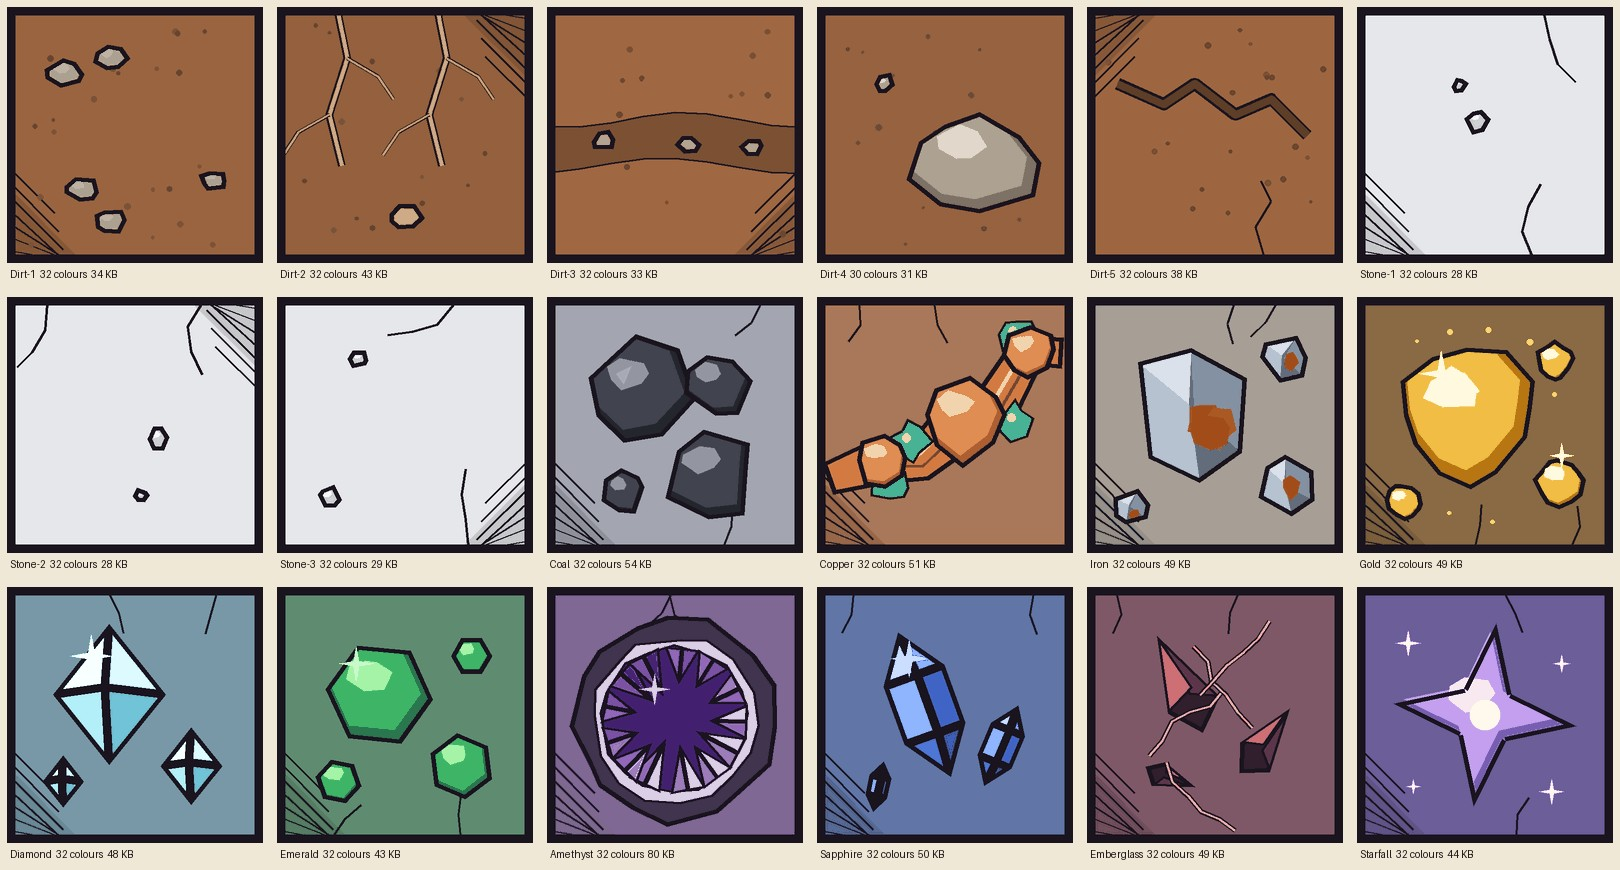
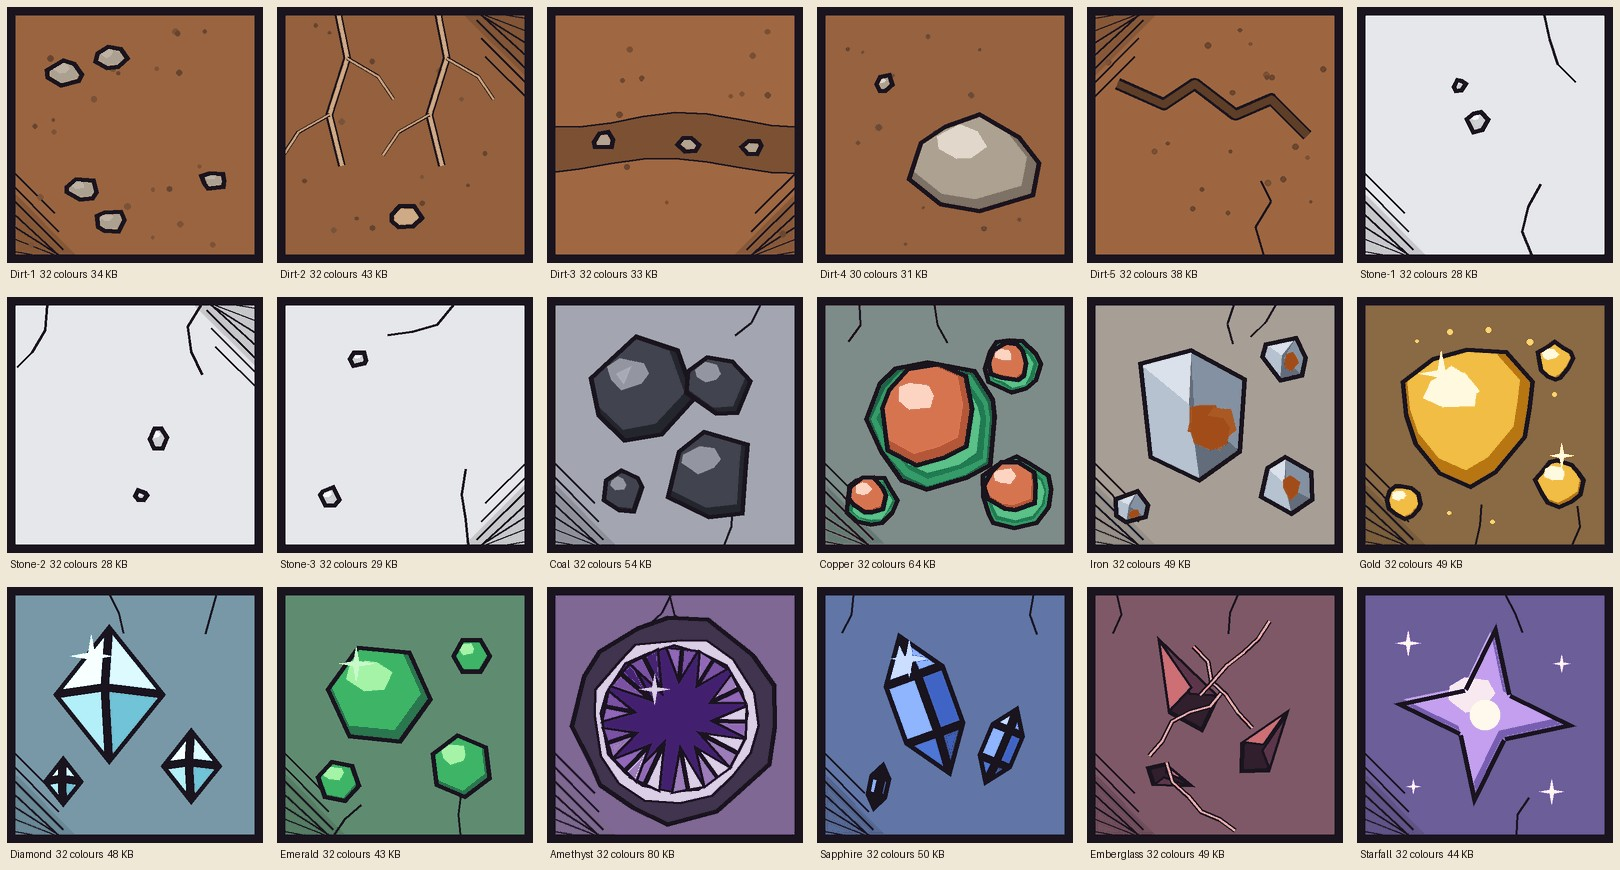
Redraw copper as nuggets in green malachite
The copper vein read as one long brown strand and didn't match the
other ores. Copper is now separate nuggets sitting in banded green
malachite, on grey-green rock so it stands apart from dirt and gold.
The copper itself is pinker and more metallic.

- draw_faces.py: replace the vein with a malachite drawing and
  regenerate Copper (the other drawings are unchanged).
- ReliefKit: replace the vein fallback with a matching malachite
  recipe, and add Kit.disc for the coloured bands.
- OreLooks: new copper palette, with malachite as its accent.

Changed region(s): [[0.4938, 0.3414, 0.679, 0.6517]]

diff --git a/art/ore-looks/draw_faces.py b/art/ore-looks/draw_faces.py
@@ -70,38 +70,21 @@ class Style:
 STYLE = Style()
 
 
-def ribbon(path, widths):
-    path = np.asarray(path, float)
-    left, right = [], []
-    for i, p in enumerate(path):
-        a = path[max(i - 1, 0)]
-        b = path[min(i + 1, len(path) - 1)]
-        d = b - a
-        nrm = np.array([-d[1], d[0]]) / (np.linalg.norm(d) + 1e-9)
-        left.append(p + nrm * widths[i])
-        right.append(p - nrm * widths[i])
-    return left + right[::-1], left, right
-
-
-def vein(t, ore, rng, style):
-    """A thick winding vein with nodules and a crust along its banks (Copper, Silver)."""
-    pal = ore["pal"]
-    path = [(0.06, 0.74), (0.24, 0.62), (0.4, 0.66), (0.55, 0.48), (0.7, 0.42), (0.82, 0.24), (0.95, 0.2)]
-    path = [(x + rng.uniform(-0.02, 0.02), y + rng.uniform(-0.03, 0.03)) for x, y in path]
-    widths = [0.065, 0.095, 0.085, 0.115, 0.095, 0.08, 0.06]
-    poly, left, right = ribbon(path, widths)
-    style.flat(t, poly, pal_at(pal, 0.45))
-    t.line([(x + LIGHT[0] * 0.02, y + LIGHT[1] * 0.02) for x, y in path[1:-1]], pal_at(pal, 0.92), 0.016)
-    t.line([(x - LIGHT[0] * 0.024, y - LIGHT[1] * 0.024) for x, y in path[1:-1]], pal_at(pal, 0.12), 0.012)
-    if "extra" in ore:
-        crust = ore["extra"]
-        for i, side in ((1, left), (2, right), (4, left), (5, right)):
-            c = side[i]
-            style.flat(t, blob(c, 0.075, 8, rng, 0.3), pal_at(crust, 0.45), edge=False)
-            t.ellipse((c[0] - 0.012, c[1] - 0.014), 0.018, pal_at(crust, 1.0))
-    for (cx, cy), r in ((path[3], 0.17), (path[1], 0.11), (path[5], 0.1)):
-        style.dome(t, blob((cx, cy), r, 8, rng, 0.16), pal, rng, lift=0.45)
-    style.spark(t, (path[3][0] - 0.05, path[3][1] - 0.07), 0.05, ore)
+def malachite(t, ore, rng, style):
+    """Copper nuggets sitting in cradles of banded green malachite, the rock copper is found in."""
+    pal, green = ore["pal"], ore["extra"]
+    for cx, cy, r in [(0.43, 0.45, 0.2), (0.76, 0.74, 0.11), (0.75, 0.25, 0.085), (0.2, 0.78, 0.08)]:
+        # the cradle sits a little toward the shadow side, so it shows as a crescent
+        oc = np.array([cx - LIGHT[0] * r * 0.28, cy - LIGHT[1] * r * 0.28])
+        outer = blob(tuple(oc), r * 1.32, 12, rng, 0.08)
+        t.poly(outer, pal_at(green, 0.15))
+        for scale, tone in ((1.18, 0.55), (1.06, 0.3), (0.95, 0.8)):
+            band = [tuple(oc + (np.asarray(p) - oc) * (scale / 1.32) + rng.uniform(-0.006, 0.006, 2)) for p in outer]
+            t.poly(band, pal_at(green, tone))
+        t.d.polygon(t.P(outer), outline=to255(INK), width=style.ow(t))
+        style.dome(t, blob((cx, cy), r, 10, rng, 0.13), pal, rng, lift=0.5)
+        hc = (cx + LIGHT[0] * r * 0.42, cy + LIGHT[1] * r * 0.42)
+        t.poly(blob(hc, r * 0.2, 7, rng, 0.25, aspect=1.4), pal_at(pal, 1.0))
 
 
 def nugget(t, ore, rng, style):
@@ -216,15 +199,16 @@ def hexes(t, ore, rng, style):
     style.spark(t, (0.31, 0.3), 0.055, ore)
 
 
-DRAWN = {"hex": hexes, "chunks": chunks, "dirt": dirt, "stone": stone, "vein": vein, "nugget": nugget}
+DRAWN = {"hex": hexes, "chunks": chunks, "dirt": dirt, "stone": stone, "malachite": malachite, "nugget": nugget}
 
-# Warm, ore-coloured rock like the Storybook Ink concept. Stone is drawn light and neutral:
+# Warm, ore-coloured rock like the Storybook Ink concept (Copper sits in cool grey-green rock so it
+# stands apart from Dirt and Gold). Stone is drawn light and neutral:
 # the game tints it with the stone grade's colour.
 FACES = [
     dict(name="Dirt", rarity="Common", host="9A6440", shape="dirt", pal=["5E544B", "8E8174", "BEB2A2", "ECE4D8"], variants=5, tones=[1.0, 0.96, 1.03, 0.98, 1.02]),
     dict(name="Stone", rarity="Common", host="E6E7EA", shape="stone", pal=["8C8E96", "B4B6BD", "D8D9DE", "FFFFFF"], variants=3),
     dict(name="Coal", rarity="Common", host="A3A6B0", shape="lumps", pal=["15161C", "2C2E37", "4C4F5A", "A9ADB8"]),
-    dict(name="Copper", rarity="Uncommon", host="A9785B", shape="vein", pal=["6A2F14", "C2652F", "F0A266", "FFE1C2"], extra=["1F7A66", "48B496", "9BE6CC"]),
+    dict(name="Copper", rarity="Uncommon", host="7D8C89", shape="malachite", pal=["5A1E10", "B5502E", "EA8862", "FFDCCB"], extra=["0B4A33", "1F7A52", "3FAE74", "8FE3AE"]),
     dict(name="Iron", rarity="Uncommon", host="A79F96", shape="chunks", pal=["39414D", "6C7A8C", "AFBCCB", "F2F6FA"], rust=["A2501F", "D27C35"]),
     dict(name="Gold", rarity="Rare", host="8A6A45", shape="nugget", pal=["7A3F02", "D8921A", "FFD45A", "FFF7D6"]),
     dict(name="Diamond", rarity="Epic", host="7898A8", shape="octa", pal=["3A86A6", "8DE2F2", "D6FCFF", "FFFFFF"], glow="9FF3FF"),
